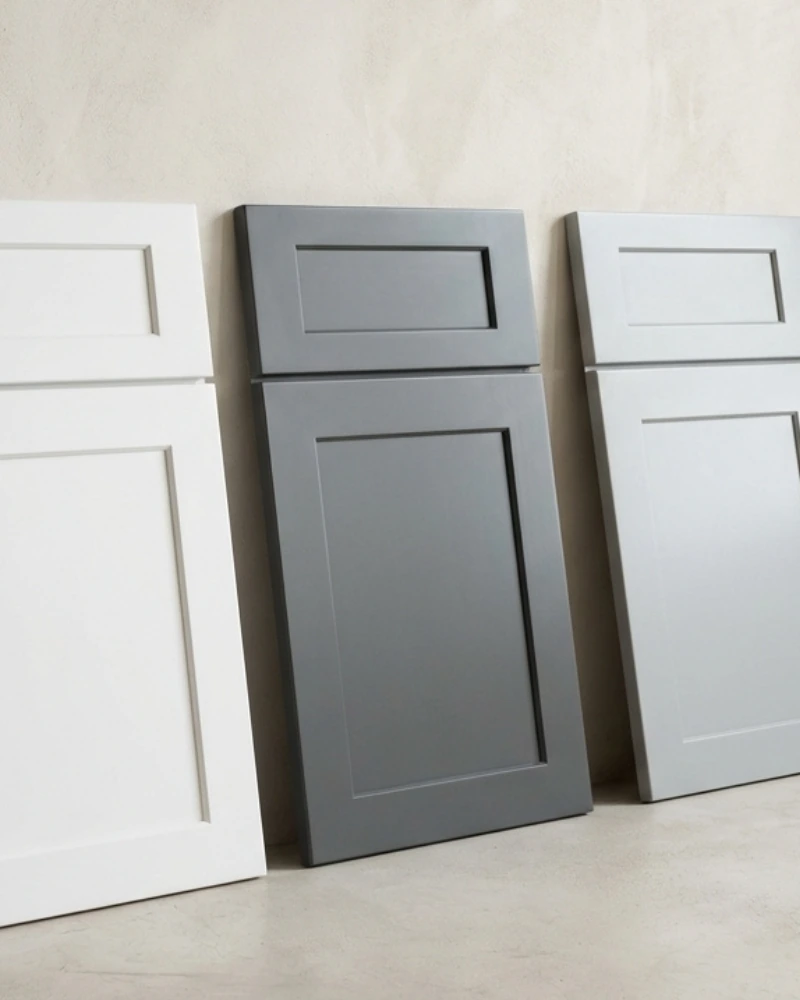
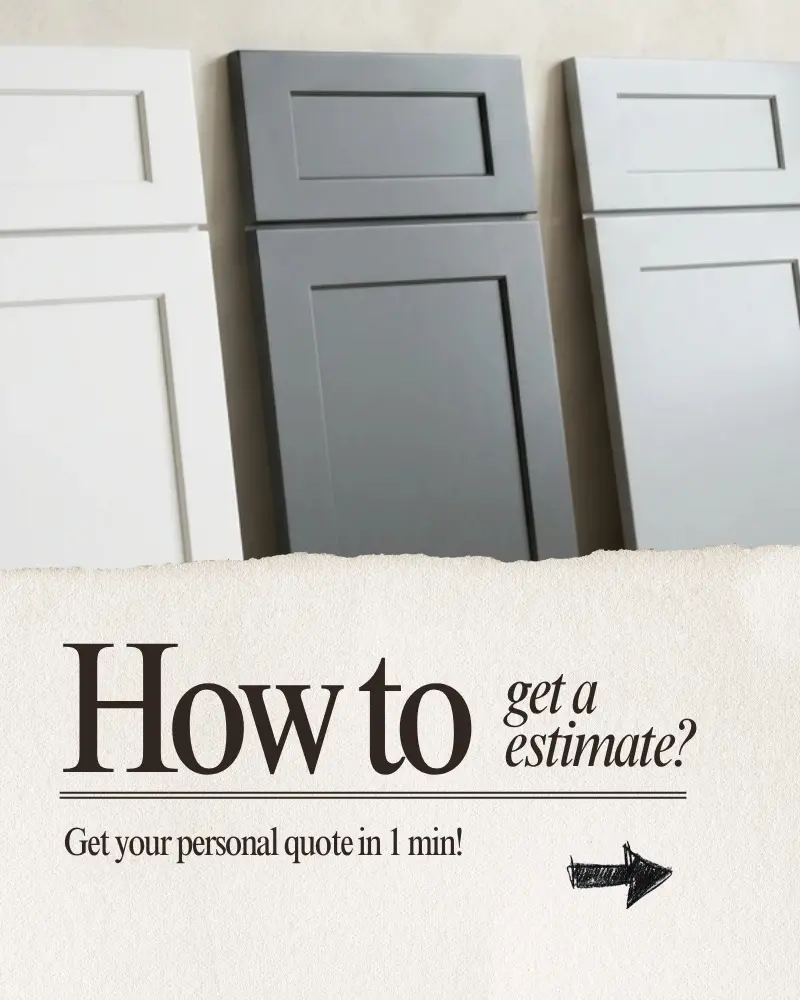
deploy: ProCraftBen/procraft-dealer-portal@7c365d963183262cfc6a00611417dee782349f5d

diff --git a/dashboard.html b/dashboard.html
@@ -157,7 +157,7 @@
   </div>
   <aside class="promo-col">
     <div class="promo-box" id="promoBox">
-      <a class="promo-slide is-active" href="https://dc.procraftcabinetry.com/" target="_blank" rel="noopener">
+      <a class="promo-slide is-active" href="https://dc-portal.procraftcabinetry.com/quick-start.html" target="_blank" rel="noopener">
         <img src="assets/promo-2026-08-new-promote.webp" alt="ProCraft Cabinetry DC — shaker cabinet doors in white, charcoal and light gray" width="800" height="1000" decoding="async"/>
       </a>
       <a class="promo-slide" href="https://dc.procraftcabinetry.com/" target="_blank" rel="noopener">
